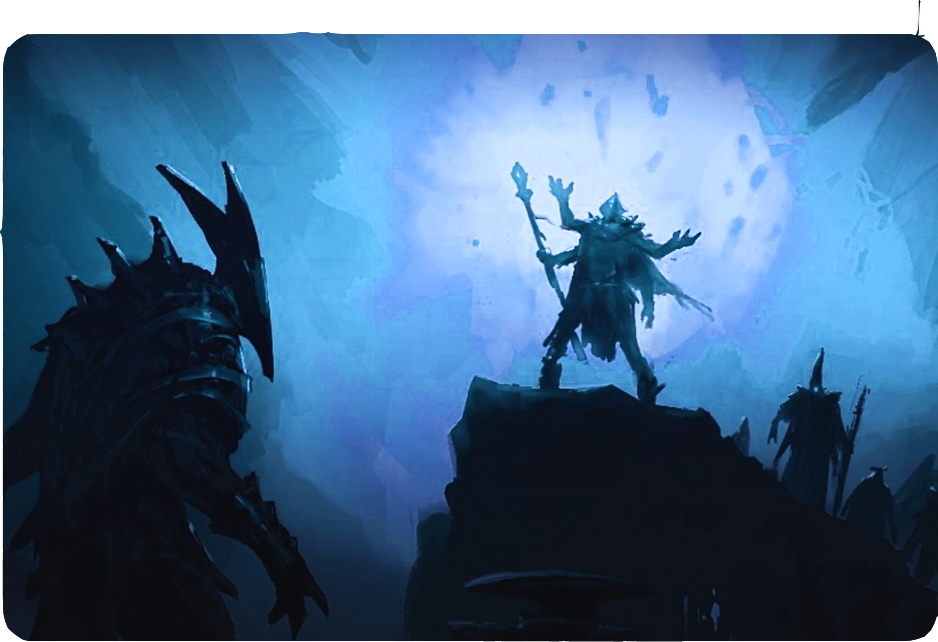
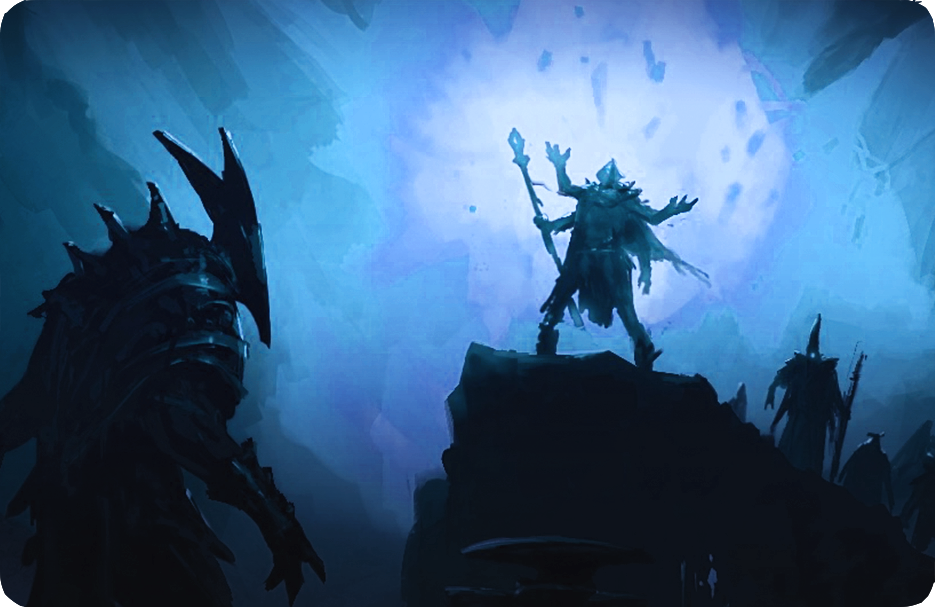
video borded

diff --git a/src/components/howItWorksPage/IntroVideo/index.tsx b/src/components/howItWorksPage/IntroVideo/index.tsx
@@ -96,6 +96,7 @@ const InteroVideo: React.FC = () => {
             </span>
           </motion.div>
         )}
+        <img src='/img/video/border.png' className="aspect-[16/9] w-[58.3rem] pl-px absolute" />
         <motion.video
           onTap={() => setIsTapped((prevState) => prevState + 1)}
           onPause={() => setIsPlaying(false)}
@@ -106,7 +107,7 @@ const InteroVideo: React.FC = () => {
           ref={videoRef}
           controls={once}
           poster="/img/bg/Story.png"
-          className="aspect-video w-[58.125rem] rounded-[30px] z-10 object-cover"
+          className="aspect-video w-[58.125rem] rounded-[1.9vw] z-10 object-cover"
         >
           <source src={"/img/video/intro.mp4"} type="video/mp4" />
         </motion.video>
